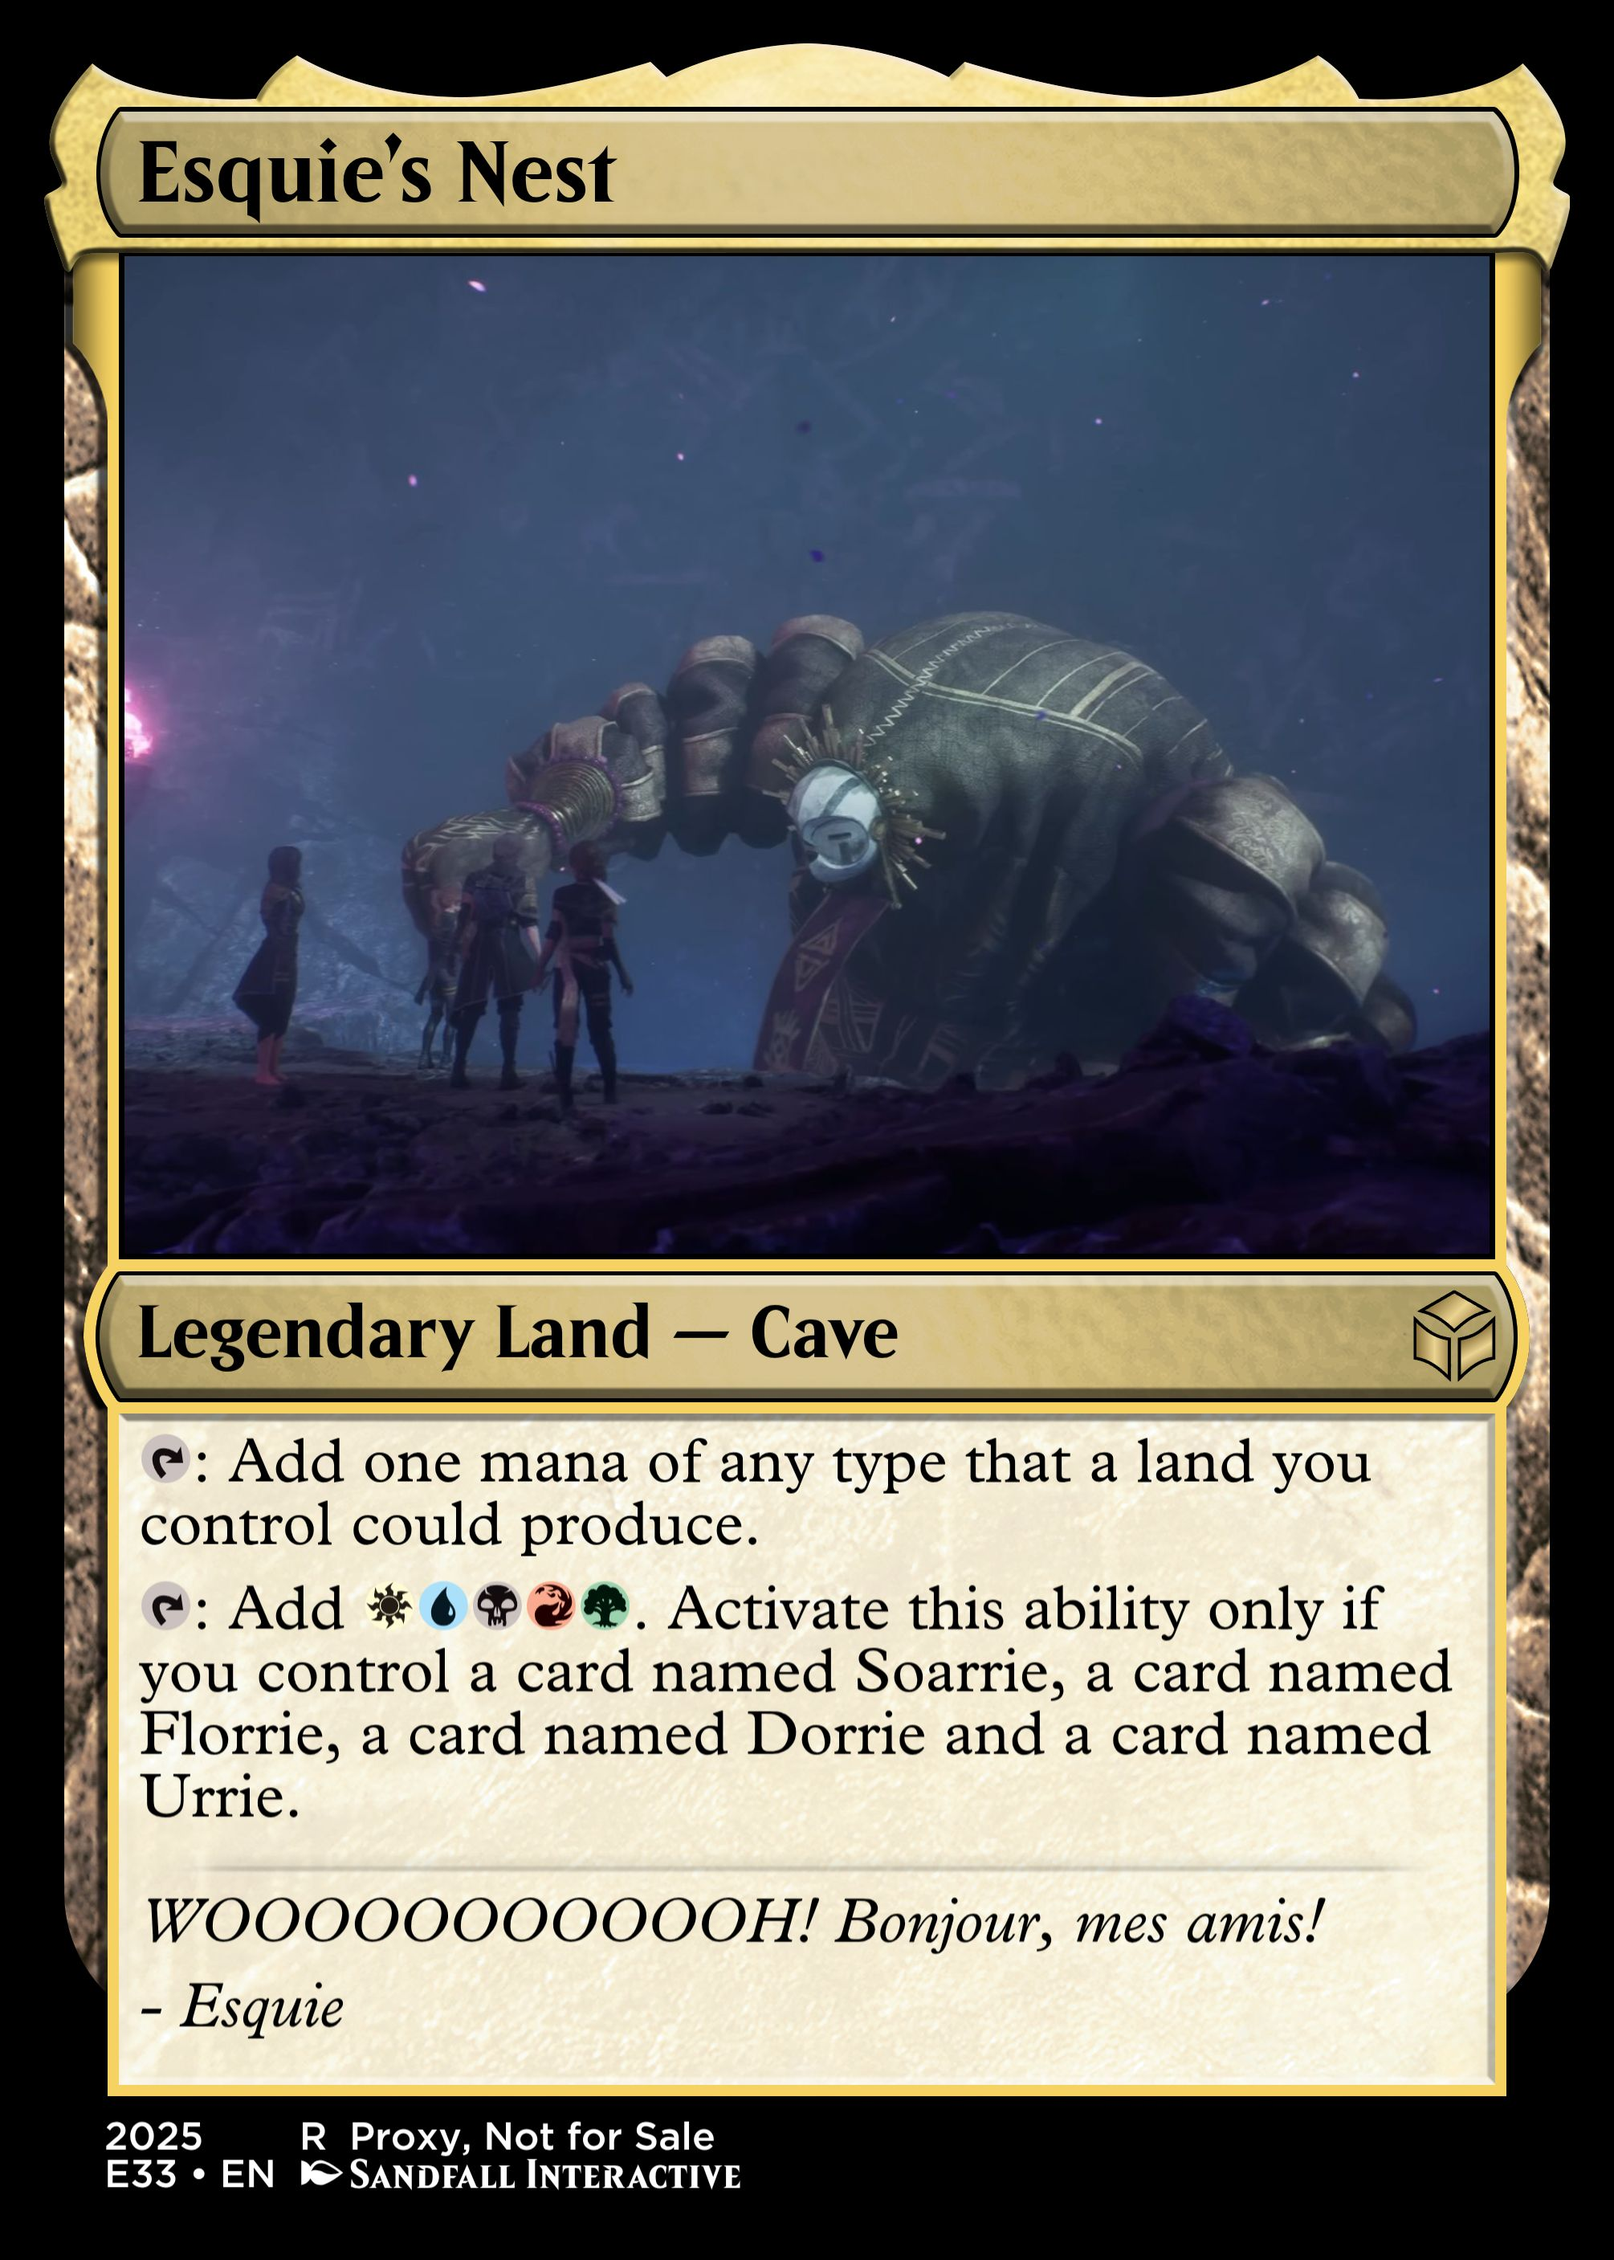
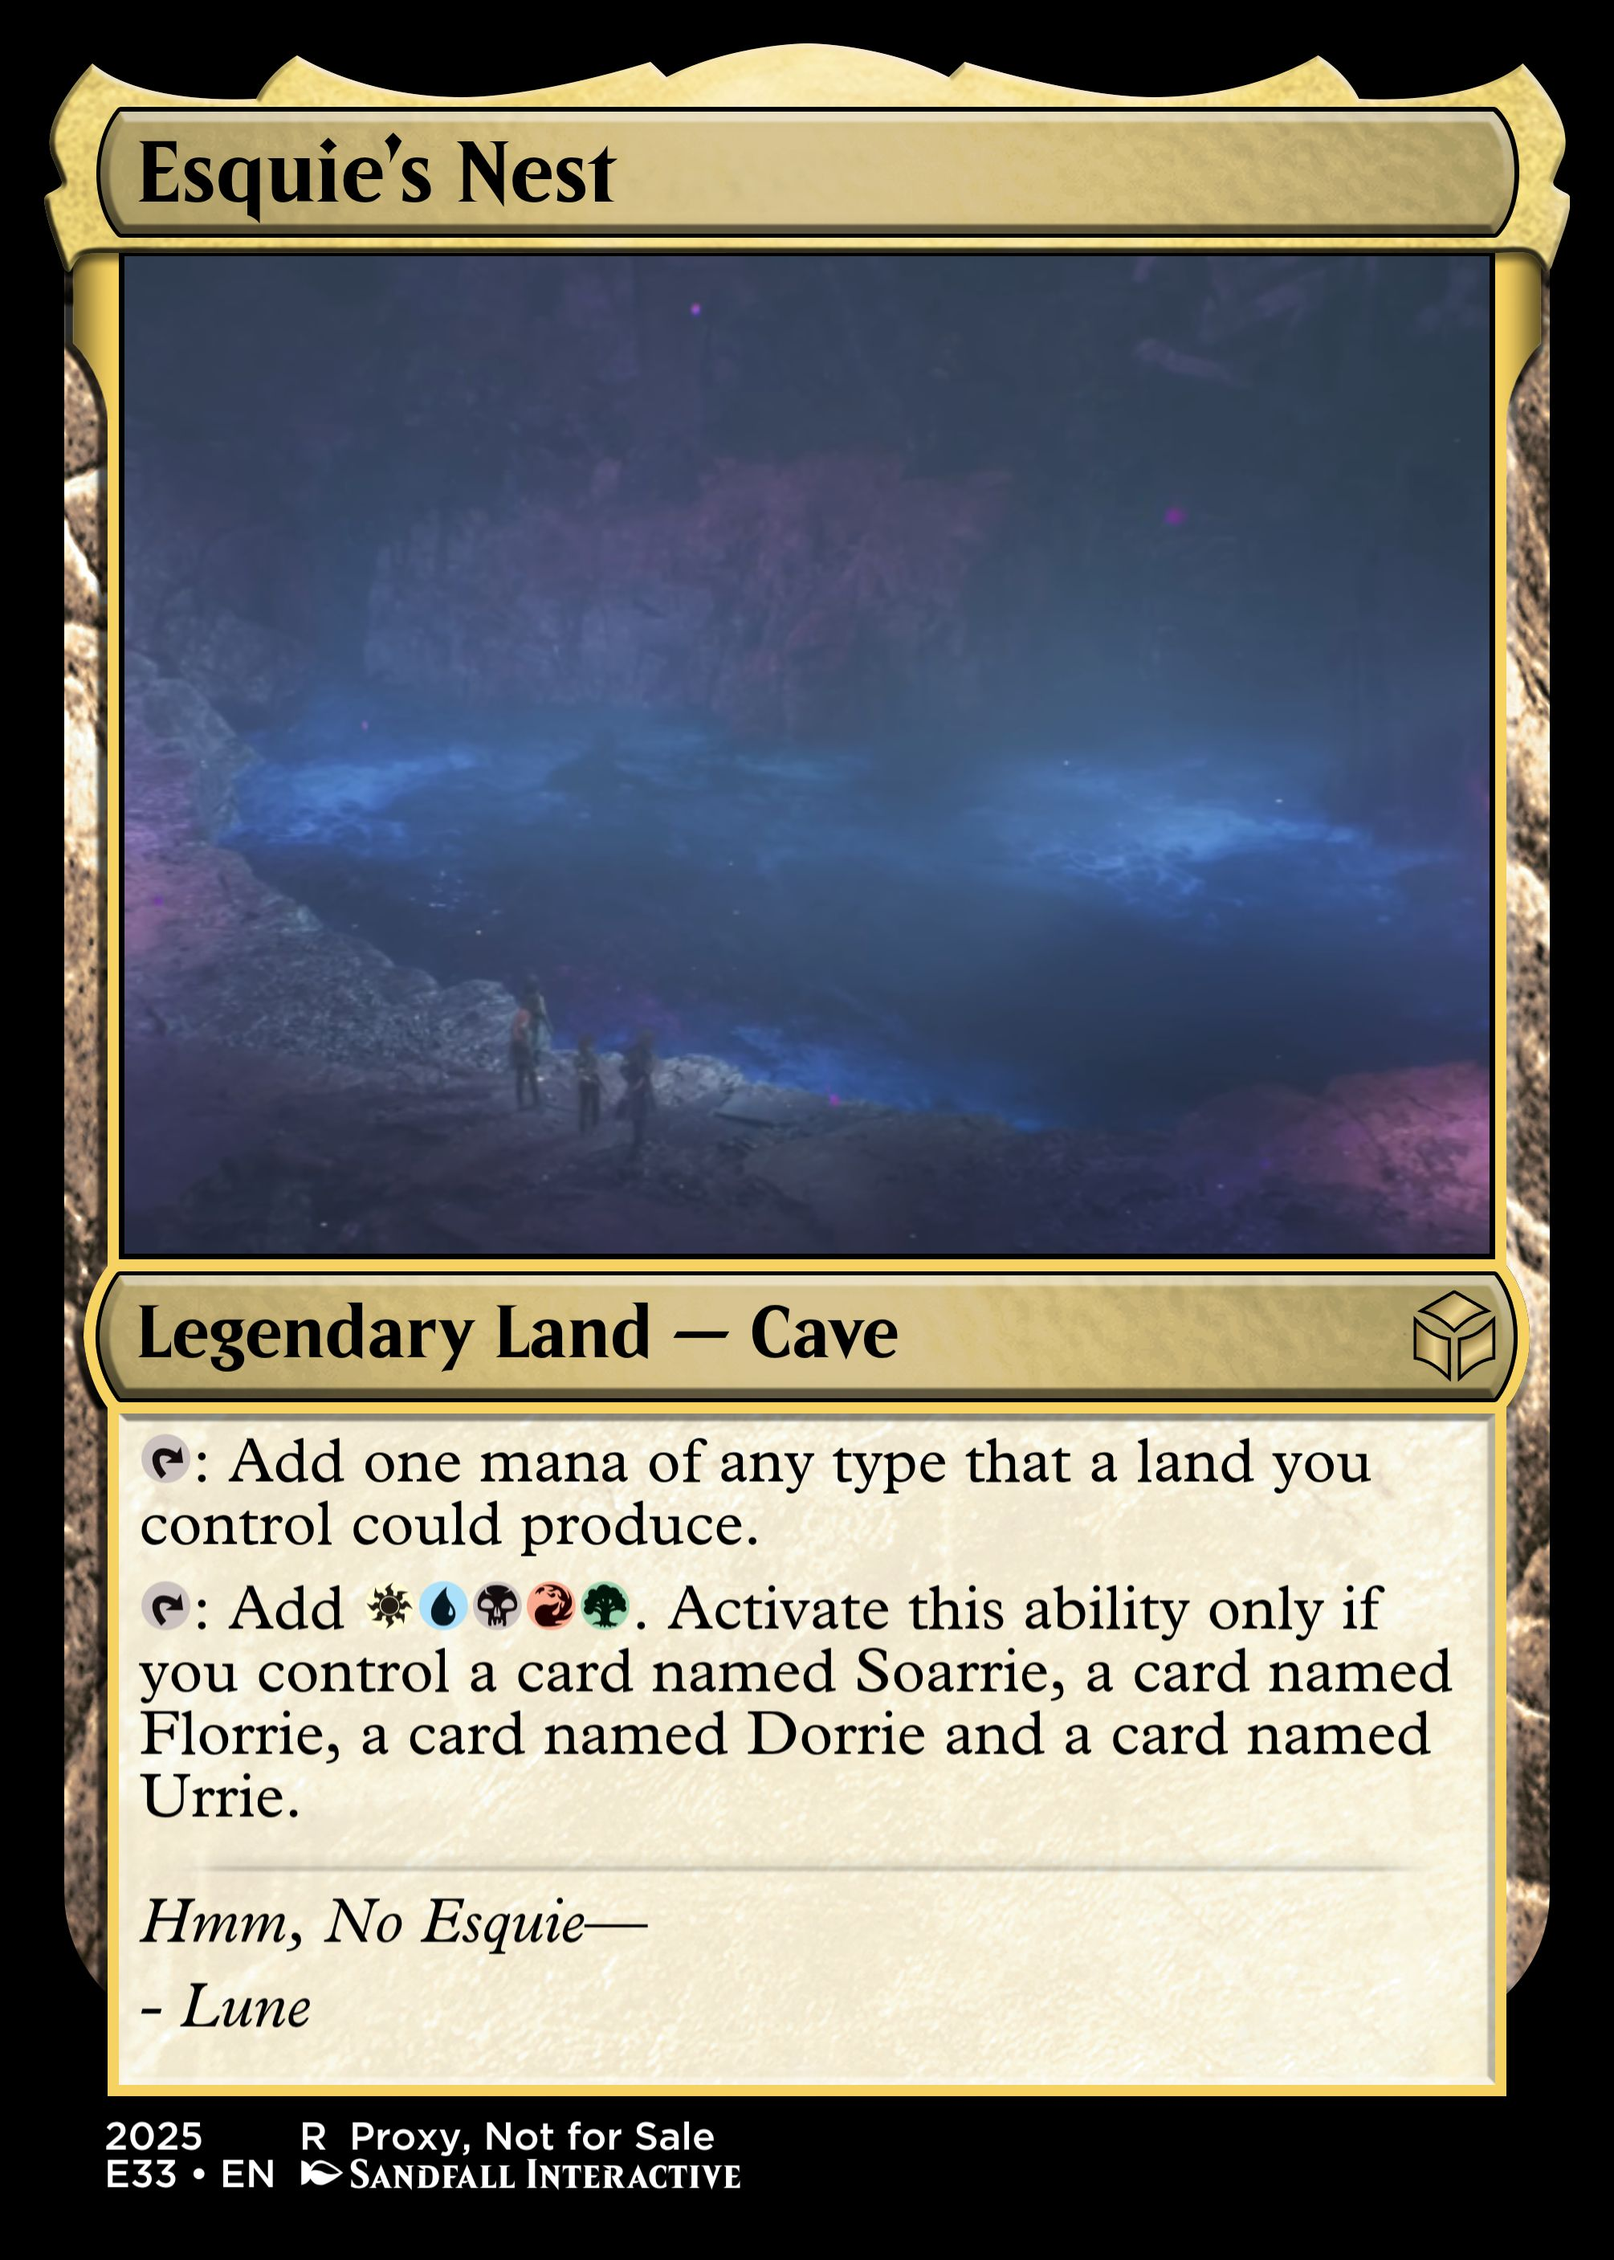
Esquie's Nest: Updated card image (that better emphasizes the landscape) Chromatic Petrification: New card image

diff --git a/design/SPOILER.md b/design/SPOILER.md
@@ -8,33 +8,33 @@ Images listed are cards first, then tokens.
 |---|---|---|
 | ![](../custom/pics/cards/E33/Alicia%20Dessendre%2C%20Silenced%20by%20Fire.full.jpg) | ![](../custom/pics/cards/E33/An%20Advantage%21.full.jpg) | ![](../custom/pics/cards/E33/Berrami%2C%20Collector%20of%20Journals.full.jpg) |
 | ![](../custom/pics/cards/E33/Cache%20Discovery.full.jpg) | ![](../custom/pics/cards/E33/Chroma%20Barrier.full.jpg) | ![](../custom/pics/cards/E33/Chroma%20Prison.full.jpg) |
-| ![](../custom/pics/cards/E33/Clea%20Dessendre%2C%20Seeking%20Vengeance.full.jpg) | ![](../custom/pics/cards/E33/Closure.full.jpg) | ![](../custom/pics/cards/E33/Danseuse.full.jpg) |
-| ![](../custom/pics/cards/E33/Dark%20Shores.full.jpg) | ![](../custom/pics/cards/E33/Dessendre%20Family%20Portrait.full.jpg) | ![](../custom/pics/cards/E33/Endless%20Tower.full.jpg) |
-| ![](../custom/pics/cards/E33/Energy%20Tint.full.jpg) | ![](../custom/pics/cards/E33/Entering%20the%20Canvas.full.jpg) | ![](../custom/pics/cards/E33/Esquie%2C%20Friend%20of%20Verso.full.jpg) |
-| ![](../custom/pics/cards/E33/Esquie%27s%20Nest.full.jpg) | ![](../custom/pics/cards/E33/Expedition%2035%20Bridge.full.jpg) | ![](../custom/pics/cards/E33/Expedition%2050%20Ferris%20Wheel.full.jpg) |
-| ![](../custom/pics/cards/E33/Expedition%20Camp.full.jpg) | ![](../custom/pics/cards/E33/Expedition%20Flag.full.jpg) | ![](../custom/pics/cards/E33/Flying%20Casino.full.jpg) |
-| ![](../custom/pics/cards/E33/Flying%20Waters.full.jpg) | ![](../custom/pics/cards/E33/Forgotten%20Battlefield.full.jpg) | ![](../custom/pics/cards/E33/Francois%2C%20Waiting%20for%20Clea.full.jpg) |
-| ![](../custom/pics/cards/E33/Gestral%20Arena.full.jpg) | ![](../custom/pics/cards/E33/Gestral%20Ascension%20Challenge.full.jpg) | ![](../custom/pics/cards/E33/Gestral%20Beach.full.jpg) |
-| ![](../custom/pics/cards/E33/Gestral%20Fighter.full.jpg) | ![](../custom/pics/cards/E33/Gestral%20Merchant.full.jpg) | ![](../custom/pics/cards/E33/Gestral%20Pot.full.jpg) |
-| ![](../custom/pics/cards/E33/Gestral%20Raft%20Volleyball%20Challenge.full.jpg) | ![](../custom/pics/cards/E33/Gestral%20Village.full.jpg) | ![](../custom/pics/cards/E33/Gestral%20Warrior.full.jpg) |
-| ![](../custom/pics/cards/E33/Get%20Out%20Of%20My%20Way%21.full.jpg) | ![](../custom/pics/cards/E33/Goblu.full.jpg) | ![](../custom/pics/cards/E33/Golgra%2C%20Gestral%20Chief.full.jpg) |
-| ![](../custom/pics/cards/E33/Gommage.full.jpg) | ![](../custom/pics/cards/E33/Gradient%20Counter.full.jpg) | ![](../custom/pics/cards/E33/Grandis%20Fashionist.full.jpg) |
-| ![](../custom/pics/cards/E33/Grosse%20Tete.full.jpg) | ![](../custom/pics/cards/E33/Gustave%2C%20Lumiere%20Engineer.full.jpg) | ![](../custom/pics/cards/E33/Gustave%27s%20Journal.full.jpg) |
-| ![](../custom/pics/cards/E33/Healing%20Tint.full.jpg) | ![](../custom/pics/cards/E33/Julien%20Tiny%20Head.full.jpg) | ![](../custom/pics/cards/E33/Lampmaster.full.jpg) |
-| ![](../custom/pics/cards/E33/Leave%20this%20Canvas%21.full.jpg) | ![](../custom/pics/cards/E33/Limonsol%2C%20Matchmaker.full.jpg) | ![](../custom/pics/cards/E33/Lorieniso%2C%20Gestral%20Musician.full.jpg) |
-| ![](../custom/pics/cards/E33/Lost%20Gestral.full.jpg) | ![](../custom/pics/cards/E33/Lumiere%20Assault.full.jpg) | ![](../custom/pics/cards/E33/Lumiere%20Opera%20House.full.jpg) |
-| ![](../custom/pics/cards/E33/Lumiere%2C%20The%20Last%20Bastion.full.jpg) | ![](../custom/pics/cards/E33/Lumierian%20Apprentice.full.jpg) | ![](../custom/pics/cards/E33/Lumina%20Converter.full.jpg) |
-| ![](../custom/pics/cards/E33/Lune%27s%20Curiosity.full.jpg) | ![](../custom/pics/cards/E33/Maelle%2C%20Child%20of%20Lumiere.full.jpg) | ![](../custom/pics/cards/E33/Maelle%2C%20The%20Reawakened%20Paintress.full.jpg) |
-| ![](../custom/pics/cards/E33/Maelle%27s%20Nightmare.full.jpg) | ![](../custom/pics/cards/E33/Manor%20Door.full.jpg) | ![](../custom/pics/cards/E33/Manor%20Gardens.full.jpg) |
-| ![](../custom/pics/cards/E33/Massacre%20at%20Dark%20Shores.full.jpg) | ![](../custom/pics/cards/E33/Matthieu%20the%20Colossus.full.jpg) | ![](../custom/pics/cards/E33/Monoco%2C%20Collector%20of%20Feet.full.jpg) |
-| ![](../custom/pics/cards/E33/Monoco%27s%20Station.full.jpg) | ![](../custom/pics/cards/E33/Noir.full.jpg) | ![](../custom/pics/cards/E33/Paint%20Spike.full.jpg) |
-| ![](../custom/pics/cards/E33/Painted%20Alicia%2C%20Eternally%20Suffering.full.jpg) | ![](../custom/pics/cards/E33/Painted%20Clea%2C%20the%20Mistress.full.jpg) | ![](../custom/pics/cards/E33/Piercing%20Strike.full.jpg) |
-| ![](../custom/pics/cards/E33/Rally%20the%20Expeditioners.full.jpg) | ![](../custom/pics/cards/E33/Recoat.full.jpg) | ![](../custom/pics/cards/E33/Renoir%27s%20Will.full.jpg) |
-| ![](../custom/pics/cards/E33/Repaint.full.jpg) | ![](../custom/pics/cards/E33/Revive%20Tint.full.jpg) | ![](../custom/pics/cards/E33/Sastro%2C%20Gestral%20Guardian.full.jpg) |
-| ![](../custom/pics/cards/E33/Sciel%2C%20Grieving%20for%20Many.full.jpg) | ![](../custom/pics/cards/E33/Serpenphare.full.jpg) | ![](../custom/pics/cards/E33/Sirene%27s%20Coliseum.full.jpg) |
-| ![](../custom/pics/cards/E33/The%2067th%20Gommage.full.jpg) | ![](../custom/pics/cards/E33/The%20Fate%20of%20the%20Canvas.full.jpg) | ![](../custom/pics/cards/E33/The%20Fracture.full.jpg) |
-| ![](../custom/pics/cards/E33/The%20Greatest%20Expedition%20in%20History.full.jpg) | ![](../custom/pics/cards/E33/The%20Hauler.full.jpg) | ![](../custom/pics/cards/E33/The%20Monolith%20Interior.full.jpg) |
-| ![](../custom/pics/cards/E33/The%20Monolith.full.jpg) | ![](../custom/pics/cards/E33/The%20Sacred%20River.full.jpg) | ![](../custom/pics/cards/E33/The%20Scavenger.full.jpg) |
-| ![](../custom/pics/cards/E33/The%20World%20Canvas.full.jpg) | ![](../custom/pics/cards/E33/Twilight%20Quarry.full.jpg) | ![](../custom/pics/cards/E33/Verso%2C%20Who%20Guards%20Truth%20With%20Lies.full.jpg) |
-| ![](../custom/pics/tokens/E33/a_1_1_gestral.jpg) | ![](../custom/pics/tokens/E33/c_a_chroma.jpg) | ![](../custom/pics/tokens/E33/c_a_flower.jpg) |
-| ![](../custom/pics/tokens/E33/c_a_lumina.jpg) | ![](../custom/pics/tokens/E33/w_1_1_human_expeditioner.jpg) |   |
+| ![](../custom/pics/cards/E33/Chromatic%20Petrification.full.jpg) | ![](../custom/pics/cards/E33/Clea%20Dessendre%2C%20Seeking%20Vengeance.full.jpg) | ![](../custom/pics/cards/E33/Closure.full.jpg) |
+| ![](../custom/pics/cards/E33/Danseuse.full.jpg) | ![](../custom/pics/cards/E33/Dark%20Shores.full.jpg) | ![](../custom/pics/cards/E33/Dessendre%20Family%20Portrait.full.jpg) |
+| ![](../custom/pics/cards/E33/Endless%20Tower.full.jpg) | ![](../custom/pics/cards/E33/Energy%20Tint.full.jpg) | ![](../custom/pics/cards/E33/Entering%20the%20Canvas.full.jpg) |
+| ![](../custom/pics/cards/E33/Esquie%2C%20Friend%20of%20Verso.full.jpg) | ![](../custom/pics/cards/E33/Esquie%27s%20Nest.full.jpg) | ![](../custom/pics/cards/E33/Expedition%2035%20Bridge.full.jpg) |
+| ![](../custom/pics/cards/E33/Expedition%2050%20Ferris%20Wheel.full.jpg) | ![](../custom/pics/cards/E33/Expedition%20Camp.full.jpg) | ![](../custom/pics/cards/E33/Expedition%20Flag.full.jpg) |
+| ![](../custom/pics/cards/E33/Flying%20Casino.full.jpg) | ![](../custom/pics/cards/E33/Flying%20Waters.full.jpg) | ![](../custom/pics/cards/E33/Forgotten%20Battlefield.full.jpg) |
+| ![](../custom/pics/cards/E33/Francois%2C%20Waiting%20for%20Clea.full.jpg) | ![](../custom/pics/cards/E33/Gestral%20Arena.full.jpg) | ![](../custom/pics/cards/E33/Gestral%20Ascension%20Challenge.full.jpg) |
+| ![](../custom/pics/cards/E33/Gestral%20Beach.full.jpg) | ![](../custom/pics/cards/E33/Gestral%20Fighter.full.jpg) | ![](../custom/pics/cards/E33/Gestral%20Merchant.full.jpg) |
+| ![](../custom/pics/cards/E33/Gestral%20Pot.full.jpg) | ![](../custom/pics/cards/E33/Gestral%20Raft%20Volleyball%20Challenge.full.jpg) | ![](../custom/pics/cards/E33/Gestral%20Village.full.jpg) |
+| ![](../custom/pics/cards/E33/Gestral%20Warrior.full.jpg) | ![](../custom/pics/cards/E33/Get%20Out%20Of%20My%20Way%21.full.jpg) | ![](../custom/pics/cards/E33/Goblu.full.jpg) |
+| ![](../custom/pics/cards/E33/Golgra%2C%20Gestral%20Chief.full.jpg) | ![](../custom/pics/cards/E33/Gommage.full.jpg) | ![](../custom/pics/cards/E33/Gradient%20Counter.full.jpg) |
+| ![](../custom/pics/cards/E33/Grandis%20Fashionist.full.jpg) | ![](../custom/pics/cards/E33/Grosse%20Tete.full.jpg) | ![](../custom/pics/cards/E33/Gustave%2C%20Lumiere%20Engineer.full.jpg) |
+| ![](../custom/pics/cards/E33/Gustave%27s%20Journal.full.jpg) | ![](../custom/pics/cards/E33/Healing%20Tint.full.jpg) | ![](../custom/pics/cards/E33/Julien%20Tiny%20Head.full.jpg) |
+| ![](../custom/pics/cards/E33/Lampmaster.full.jpg) | ![](../custom/pics/cards/E33/Leave%20this%20Canvas%21.full.jpg) | ![](../custom/pics/cards/E33/Limonsol%2C%20Matchmaker.full.jpg) |
+| ![](../custom/pics/cards/E33/Lorieniso%2C%20Gestral%20Musician.full.jpg) | ![](../custom/pics/cards/E33/Lost%20Gestral.full.jpg) | ![](../custom/pics/cards/E33/Lumiere%20Assault.full.jpg) |
+| ![](../custom/pics/cards/E33/Lumiere%20Opera%20House.full.jpg) | ![](../custom/pics/cards/E33/Lumiere%2C%20The%20Last%20Bastion.full.jpg) | ![](../custom/pics/cards/E33/Lumierian%20Apprentice.full.jpg) |
+| ![](../custom/pics/cards/E33/Lumina%20Converter.full.jpg) | ![](../custom/pics/cards/E33/Lune%27s%20Curiosity.full.jpg) | ![](../custom/pics/cards/E33/Maelle%2C%20Child%20of%20Lumiere.full.jpg) |
+| ![](../custom/pics/cards/E33/Maelle%2C%20The%20Reawakened%20Paintress.full.jpg) | ![](../custom/pics/cards/E33/Maelle%27s%20Nightmare.full.jpg) | ![](../custom/pics/cards/E33/Manor%20Door.full.jpg) |
+| ![](../custom/pics/cards/E33/Manor%20Gardens.full.jpg) | ![](../custom/pics/cards/E33/Massacre%20at%20Dark%20Shores.full.jpg) | ![](../custom/pics/cards/E33/Matthieu%20the%20Colossus.full.jpg) |
+| ![](../custom/pics/cards/E33/Monoco%2C%20Collector%20of%20Feet.full.jpg) | ![](../custom/pics/cards/E33/Monoco%27s%20Station.full.jpg) | ![](../custom/pics/cards/E33/Noir.full.jpg) |
+| ![](../custom/pics/cards/E33/Paint%20Spike.full.jpg) | ![](../custom/pics/cards/E33/Painted%20Alicia%2C%20Eternally%20Suffering.full.jpg) | ![](../custom/pics/cards/E33/Painted%20Clea%2C%20the%20Mistress.full.jpg) |
+| ![](../custom/pics/cards/E33/Piercing%20Strike.full.jpg) | ![](../custom/pics/cards/E33/Rally%20the%20Expeditioners.full.jpg) | ![](../custom/pics/cards/E33/Recoat.full.jpg) |
+| ![](../custom/pics/cards/E33/Renoir%27s%20Will.full.jpg) | ![](../custom/pics/cards/E33/Repaint.full.jpg) | ![](../custom/pics/cards/E33/Revive%20Tint.full.jpg) |
+| ![](../custom/pics/cards/E33/Sastro%2C%20Gestral%20Guardian.full.jpg) | ![](../custom/pics/cards/E33/Sciel%2C%20Grieving%20for%20Many.full.jpg) | ![](../custom/pics/cards/E33/Serpenphare.full.jpg) |
+| ![](../custom/pics/cards/E33/Sirene%27s%20Coliseum.full.jpg) | ![](../custom/pics/cards/E33/The%2067th%20Gommage.full.jpg) | ![](../custom/pics/cards/E33/The%20Fate%20of%20the%20Canvas.full.jpg) |
+| ![](../custom/pics/cards/E33/The%20Fracture.full.jpg) | ![](../custom/pics/cards/E33/The%20Greatest%20Expedition%20in%20History.full.jpg) | ![](../custom/pics/cards/E33/The%20Hauler.full.jpg) |
+| ![](../custom/pics/cards/E33/The%20Monolith%20Interior.full.jpg) | ![](../custom/pics/cards/E33/The%20Monolith.full.jpg) | ![](../custom/pics/cards/E33/The%20Sacred%20River.full.jpg) |
+| ![](../custom/pics/cards/E33/The%20Scavenger.full.jpg) | ![](../custom/pics/cards/E33/The%20World%20Canvas.full.jpg) | ![](../custom/pics/cards/E33/Twilight%20Quarry.full.jpg) |
+| ![](../custom/pics/cards/E33/Verso%2C%20Who%20Guards%20Truth%20With%20Lies.full.jpg) | ![](../custom/pics/tokens/E33/a_1_1_gestral.jpg) | ![](../custom/pics/tokens/E33/c_a_chroma.jpg) |
+| ![](../custom/pics/tokens/E33/c_a_flower.jpg) | ![](../custom/pics/tokens/E33/c_a_lumina.jpg) | ![](../custom/pics/tokens/E33/w_1_1_human_expeditioner.jpg) |

diff --git a/design/MULTICOLOR.md b/design/MULTICOLOR.md
@@ -1,6 +1,6 @@
 # Cards
 
-> Last generated: 8/11/2025 11:37:46 am
+> Last generated: 8/11/2025 6:24:33 pm
 
 ## A Storm is Coming
 
@@ -184,6 +184,9 @@ WB
 Enchantment - Aura
 Enchant permanent.
 Enchanted permanent becomes an artifact and loses all abilities.
+---
+The expeditioners, the ones killed by Nevrons. Gustave noticed their Chroma remains in their bodies. They never disspiated, like the Gommage.
+- Lune
 ```
 
 [card implementation](../custom/cards/c/chromatic_petrification.txt)
